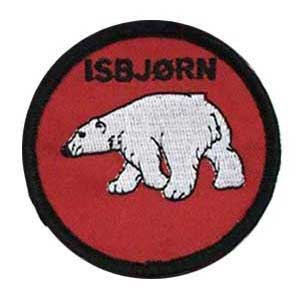
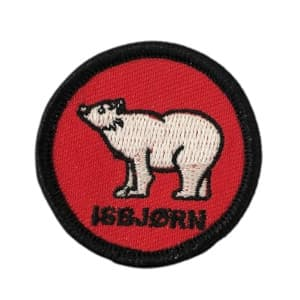
Update isbjorn badge with new image

diff --git a/_m/isbjoern.md b/_m/isbjoern.md
@@ -1,0 +1,18 @@
+---
+name: Isbjørn
+tags:
+- uofficielt
+- forløb
+- shorts
+age: 12+
+image: isbjoern.jpg
+buylink: https://www.facebook.com/groups/spejdermaerker/posts/3552220261676664/
+buylink_requires_facebook_group_membership:
+  name: Spejdermærker
+  url: https://www.facebook.com/groups/spejdermaerker/
+---
+Møn Gruppe har lavet et mærke til dem der vil gå i shorts i 5 år.
+Det er kaldet Isbjørn og det har noglelunde de samme regler som viking, det varer bare i 5 år.
+
+Vi mener dog ikke at det skal forhindre en i at lave nogle aktiviteter, fx er det ok at tage på spejderløb hvor man ikke må have shorts på, eller hvis man skal i en katolsk kirke der kræver at man dækker knæene.
+Ved sådanne lejligheder er der okay at have tildækkede knæ men ellers skal man have shorts (eller andet beklædning der ikke dækker knæene) til over knæene.
